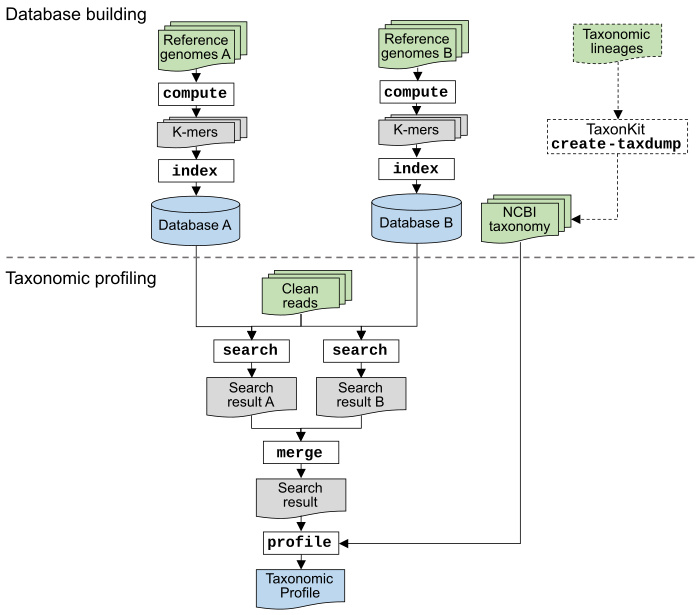
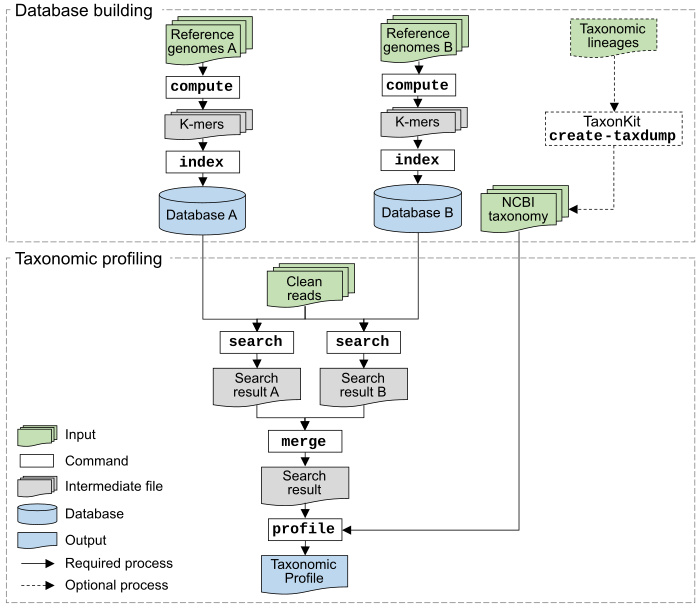
update figures and docs

Changed region(s): [[0.0, 0.0, 1.0, 0.9984], [0.0, 0.6864, 0.24, 0.9672], [0.81, 0.0312, 0.96, 0.1248]]

diff --git a/README.md b/README.md
@@ -26,14 +26,13 @@
 ### 1. Accurate metagenomic profiling
 
 KMCP adopts a novel metagenomic profiling strategy
-by splitting reference genomes into 10 or 5 chunks and mappings reads to these
+by splitting reference genomes into 10 chunks and mappings reads to these
 chunks via fast k-mer matching, denoted as ***pseudo-mapping***.
 
 Benchmarking results on both simulated and real data indicate that KMCP not only
 allows for accurate taxonomic profiling of archaea, bacteria, and viral populations
 from metagenomic shotgun sequence data, but also provides confident pathogen detection
-in infectious clinical samples of low depth
-(check the [benchmark](https://bioinf.shenwei.me/kmcp/benchmark/profiling)).
+in infectious clinical samples of low depth.
 
 ***Genome collections with custom taxonomy***,
 e.g., [GTDB](https://gtdb.ecogenomic.org/) uses its own taxonomy and
@@ -45,7 +44,7 @@ are also supported by generating NCBI-style taxdump files with [taxonkit create-
 KMCP can be used for fast sequence search against large scales of genomic datasets
 as [BIGSI](https://github.com/Phelimb/BIGSI) and [COBS](https://github.com/bingmann/cobs) do.
 We reimplemented and modified the Compact Bit-Sliced Signature index (COBS) algorithm,
-bringing a smaller index size and much faster searching speed ([4x-10x faster than COBS](https://bioinf.shenwei.me/kmcp/benchmark/searching/#result))
+bringing a smaller index size and [much faster searching speed (2x for genome search and 10x for short reads) faster than COBS](https://bioinf.shenwei.me/kmcp/benchmark/searching/#result)
  (check the [tutorial](https://bioinf.shenwei.me/kmcp/tutorial/searching) and [benchmark](https://bioinf.shenwei.me/kmcp/benchmark/searching)).
  
 ### 3. Fast genome similarity estimation
@@ -61,14 +60,14 @@ KMCP supports multiple k-mer sketches
 [FracMinHash](https://www.biorxiv.org/content/10.1101/2022.01.11.475838v2)
 (previously named [Scaled MinHash](https://f1000research.com/articles/8-1006)), and
 [Closed Syncmers](https://peerj.com/articles/10805/)) for genome similarity estimation.
-And [KMCP is 4x-7x faster than Mash/Sourmash](https://bioinf.shenwei.me/kmcp/benchmark/searching/#result)
+And [KMCP is 5x-7x faster than Mash/Sourmash](https://bioinf.shenwei.me/kmcp/benchmark/searching/#result)
  (check the [tutorial](https://bioinf.shenwei.me/kmcp/tutorial/searching) and [benchmark](https://bioinf.shenwei.me/kmcp/benchmark/searching)).
 
 
 ## Features
 
 - **Easy to install**
-    - [Statically linked executable binaries for multiple platforms](https://bioinf.shenwei.me/kmcp/download) (Linux/Windows/macOS, amd64).
+    - [Statically linked executable binaries for multiple platforms](https://bioinf.shenwei.me/kmcp/download) (Linux/Windows/macOS, AMD64/ARM64).
     - No dependencies, no configurations.
     - `conda install -c bioconda kmcp`
 - **Easy to use**
@@ -77,9 +76,9 @@ And [KMCP is 4x-7x faster than Mash/Sourmash](https://bioinf.shenwei.me/kmcp/ben
 - **Building database is easy and fast**
     - [~25 min for 47894 genomes from GTDB-r202](https://bioinf.shenwei.me/kmcp/benchmark/searching/#kmcp-vs-cobs) on a sever with 40 CPU threads and solid disk drive.
 - **Fast searching speed**
-    - The index structure is modified from COBS, while [KMCP is 4x-10x faster](https://bioinf.shenwei.me/kmcp/benchmark/searching/#result).
+    - The index structure is modified from COBS, while [KMCP is 2x-10x faster](https://bioinf.shenwei.me/kmcp/benchmark/searching/#result).
     - Automatically scales to exploit all available CPU cores.
-    - Searching time is linearly related to the number of reference genomes.
+    - Searching time is linearly related to the number of reference genomes (chunks).
 - **Scalable searching**. *Searching results against multiple databases can be fast merged*.
     This brings many benefits:
     - *There's no need to re-built the database with newly added reference genomes*. 
@@ -88,9 +87,9 @@ And [KMCP is 4x-7x faster than Mash/Sourmash](https://bioinf.shenwei.me/kmcp/ben
 - **Accurate taxonomic profiling**
     - Some k-mer based taxonomic profilers suffer from high false positive rates,
       while [KMCP adopts multiple strategies](https://bioinf.shenwei.me/kmcp/tutorial/profiling/#methods)
-      to [improve specificity and keeps high sensitivity at the same time](https://bioinf.shenwei.me/kmcp/benchmark/profiling).
-    - In addition to archaea and bacteria, [KMCP performed well on **viruses/phages**](https://bioinf.shenwei.me/kmcp/benchmark/profiling/#16-mock-virome-communities-from-roux-et-al-virusesphages).
-    - [KMCP also provides **confident infectious pathogen detection**](https://bioinf.shenwei.me/kmcp/benchmark/profiling/#87-metagenomic-samples-of-infected-body-fluids-bacteria-pathogens-low-coverage).
+      to **improve specificity and keeps high sensitivity at the same time**.
+    - In addition to archaea and bacteria, KMCP performed well on **viruses/phages**.
+    - KMCP also provides **confident infectious pathogen detection**.
     - [Preset six modes for multiple scenarios](https://bioinf.shenwei.me/kmcp/tutorial/profiling/#profiling-modes).
     - [Supports CAMI and MetaPhlAn profiling format](https://bioinf.shenwei.me/kmcp/tutorial/profiling/#profiling-result-formats).
     
@@ -143,7 +142,7 @@ in two packages for better searching performance.
 ![](kmcp-workflow.jpg)
 
     # compute k-mers
-    kmcp compute -k 21 --split-number 10 --split-overlap 100 \
+    kmcp compute -k 21 --split-number 10 --split-overlap 150 \
         --in-dir genomes/ --out-dir genomes-k21-n10
 
     # index k-mers
@@ -168,10 +167,15 @@ in two packages for better searching performance.
         --cami-report      search.tsv.gz.c.profile \
         --binning-result   search.tsv.gz.binning.gz
 
+Next:
+
+- [Demo of taxonomic profiling](https://github.com/shenwei356/kmcp/tree/main/demo-profiling)
+- [Tutorial of taxonomic profiling](https://bioinf.shenwei.me/kmcp/tutorial/profiling)
+
 ## Support
 
 Please [open an issue](https://github.com/shenwei356/kmcp/issues) to report bugs,
-propose new functions or ask for help.
+propose new functions, or ask for help.
 
 ## License
 

diff --git a/docs/tutorial/profiling/index.md b/docs/tutorial/profiling/index.md
@@ -66,7 +66,6 @@ and the results can be fastly merged for downstream analysis.
         kmcp search -d db file1.fq.gz file2.fq.gz -o result.tsv.gz
 
     **Single-end mode is recommended for paired-end reads, for higher sensitivity**.
-    See [benchmark](https://bioinf.shenwei.me/kmcp/benchmark/profiling).
 
 2. A long query sequence may contain duplicated k-mers, which are
     not removed for short sequences by default. You may modify the
@@ -74,7 +73,7 @@ and the results can be fastly merged for downstream analysis.
 3. For long reads or contigs, you should split them into short reads
     using `seqkit sliding`, e.g.,
 
-        seqkit sliding -s 100 -W 300
+        seqkit sliding -s 100 -W 300-f/--max-fpr
 
 4. The values of `tCov` and `jacc` in results only apply to databases built with a single size of k-mer.
 
@@ -83,6 +82,7 @@ can use stricter criteria in `kmcp profile`.
 
 1. `-t/--min-query-cov`, minimal query coverage, i.e., 
    proportion of matched k-mers and unique k-mers of a query (default `0.55`, close to `~96.5%` sequence similarity)
+1. `-f/--max-fpr`, maximal false positive rate of a query. (default `0.05`)
 
 #### **Index files loading modes**
 
@@ -345,11 +345,7 @@ is used for batch submitting Slurm jobs via script templates.
     the flag `--no-amb-corr` to reduce analysis time, which has very little
      effect on the results.
 4. Abundance are estimated using an Expectation-Maximization (EM) algorithm..
-5. Input files are parsed 4 times, therefore STDIN is not supported.
-
-Three-rounds profiling:
-
-<img src="profiling-steps.jpg" alt="" width="500"/>
+5. Input files are parsed for multiple times, therefore STDIN is not supported.
 
 **Accuracy notes**:
 
@@ -399,9 +395,9 @@ You can still change the values of some options below as usual.
 1. Mapping references IDs to TaxIds: `-T/--taxid-map`
 2. NCBI taxonomy dump files: `-X/--taxdump`
 
-For databases built with a custom genome collection, you can use
+**For databases built with a custom genome collection, you can use
 [taxonkit create-taxdump](https://bioinf.shenwei.me/taxonkit/usage/#create-taxdump)
-to create NCBI-style taxdump files, which also generates a TaxId mapping file.
+to create NCBI-style taxdump files, which also generates a TaxId mapping file**.
 
 **Performance notes**:
 
@@ -449,7 +445,7 @@ to create NCBI-style taxdump files, which also generates a TaxId mapping file.
 
 #### Profiling result formats
 
-**Supported profiling output formats**:
+Taxonomic profiling output formats:
 
 - KMCP      (`-o/--out-prefix`). 
   **Note that: abundances are only computed for target references rather than
@@ -457,14 +453,12 @@ to create NCBI-style taxdump files, which also generates a TaxId mapping file.
 - CAMI      (`-M/--metaphlan-report`, `--metaphlan-report-version`, sample name: `-s/--sample-id`, taxonomy data: `--taxonomy-id`)
 - MetaPhlAn (`-C/--cami-report`, sample name: `-s/--sample-id`))
 
-**Supported taxonomic binning formats**:
+Taxonomic binning formats:
 
 - CAMI      (`-B/--binning-result`)
 
 
-**KMCP format**:
-
-Tab-delimited format with 16 columns:
+KMCP format (Tab-delimited format with 16 columns):
 
 ```
  1. ref,                Identifier of the reference genome

diff --git a/docs/benchmark/searching/index.md b/docs/benchmark/searching/index.md
@@ -5,8 +5,8 @@
 Softwares
 
 - [COBS](https://github.com/bingmann/cobs) ([1915fc0](https://github.com/bingmann/cobs/commit/1915fc061bbe47946116b4a051ed7b4e3f3eca15))
-- [Sourmash](https://github.com/dib-lab/sourmash) (v4.2.2)
-- KMCP ([v0.8.0](https://github.com/shenwei356/kmcp/releases/tag/v0.8.0))
+- [Sourmash](https://github.com/dib-lab/sourmash) (v4.5.0)
+- KMCP ([v0.9.0](https://github.com/shenwei356/kmcp/releases/tag/v0.9.0))
 
 [GTDB r202 representative genomes](https://data.ace.uq.edu.au/public/gtdb/data/releases/release202/202.0/genomic_files_reps/gtdb_genomes_reps_r202.tar.gz) are used for tests:
 
@@ -22,9 +22,9 @@ Database size and building time:
 
 |               |cobs      |kmcp     |
 |:--------------|:---------|:--------|
-|database size  | 86.96GB  | 55.15GB |
-|building time  | 29m:55s  | 24min52s|
-|temporary files| 160.76GB | 1.19TB  |
+|database size  | 86.96GB  | **55.15GB** |
+|building time  | 29m55s   | **21min04s**|
+|temporary files| **160.76GB** | 935.11G |
 
 Searching with bacterial genomes or short reads (~1M reads).
 
@@ -36,9 +36,9 @@ Database size and building time:
 
 |               |mash   |sourmash  |kmcp    |
 |:--------------|:------|:---------|:-------|
-|database size  |743MB  | 5.19GB   | 1.52GB |
-|building time  |11m39s | 89m59s   | 7min02s|
-|temporary files|-      |-         | 3.41GB |
+|database size  |**1.22GB** | 5.19GB   | 1.52GB |
+|buiding time   |13m30s | 40m39s   | **7min59s**|
+|temporary files|-      |-         | 1.85GB |
 
 
 Searching with bacterial genomes.

diff --git a/benchmarks/searching/plot.md b/benchmarks/searching/plot.md
@@ -21,6 +21,19 @@ KMCP vs COBS
     csvtk concat bench.kmcp-cobs.long.tsv.time.csv bench.kmcp-cobs.short.tsv.time.csv \
         > bench.kmcp-cobs.csv
         
+    cat bench.kmcp-cobs.csv \
+        | csvtk summary -g group,app -f time:mean \
+        | csvtk sort -k group \
+        | csvtk cut -f group,app,time:mean \
+        | csvtk csv2md 
+
+|group          |app |time:mean|
+|:--------------|:---|:--------|
+|1M 150-bp reads|KMCP|74.28    |
+|1M 150-bp reads|COBS|749.32   |
+|One genome     |KMCP|12.83    |
+|One genome     |COBS|25.70    |
+
 KMCP vs Mash and Sourmash
 
     cat bench.kmcp-mash-sourmash.thread1.tsv \
@@ -41,6 +54,21 @@ KMCP vs Mash and Sourmash
         
     csvtk concat bench.kmcp-mash-sourmash.thread1.tsv.csv bench.kmcp-mash-sourmash.thread8.tsv.csv\
         > bench.kmcp-mash-sourmash.csv
+
+    cat bench.kmcp-mash-sourmash.csv \
+        | csvtk summary -g group,app -f time:mean \
+        | csvtk sort -k group \
+        | csvtk cut -f group,app,time:mean \
+        | csvtk csv2md 
+
+|group    |app     |time:mean|
+|:--------|:-------|:--------|
+|Threads=1|Sourmash|3.48     |
+|Threads=1|Mash    |6.46     |
+|Threads=1|KMCP    |1.11     |
+|Threads=8|Sourmash|3.48     |
+|Threads=8|Mash    |4.20     |
+|Threads=8|KMCP    |0.60     |
     
 ## Plotting
 

diff --git a/docs/database.md b/docs/database.md
@@ -1414,7 +1414,7 @@ is good enough.
         --out-dir refs-k21-n10
 
     # demo output
-    13:11:13.397 [INFO] kmcp v0.8.0
+    13:11:13.397 [INFO] kmcp v0.9.0
     13:11:13.397 [INFO]   https://github.com/shenwei356/kmcp
     13:11:13.397 [INFO] 
     13:11:13.397 [INFO] checking input files ...
@@ -1525,7 +1525,7 @@ and have improved the indexing and searching speed
         --out-dir refs.kmcp 
 
     # demo output
-    22:44:17.710 [INFO] kmcp v0.8.0
+    22:44:17.710 [INFO] kmcp v0.9.0
     22:44:17.710 [INFO]   https://github.com/shenwei356/kmcp
     22:44:17.710 [INFO] 
     22:44:17.710 [INFO] loading .unik file infos from file: refs-k21-n10/_info.txt
@@ -1596,5 +1596,7 @@ Output:
 |file                          |k  |canonical|num-hashes|num-sigs|num-names|
 |:-----------------------------|:--|:--------|:---------|:-------|:--------|
 |refs.kmcp/R001/_block001.uniki|21 |true     |1         |746442  |8        |
+
+Where `num-sigs` is the size of the bloom filters, and `num-names` is the number of genome (chunks).
 
 What's next? Check the [tutorials](/kmcp/tutorial).

diff --git a/CHANGELOG.md b/CHANGELOG.md
@@ -1,6 +1,6 @@
 # Changelog
 
-### v0.9.0 - 2022-00-00
+### v0.9.0 - 2022-09-00
 
 - `compute`:
     - smaller output files and faster speed.
@@ -11,6 +11,7 @@
     - smaller query FPR values by computing the actual FPR values for each bloom filter in a genome chunk.
 - `profile`:
     -***more accurate abundance estimation using EM algorithm***.
+- new command `utils split-genomes` for splitting genomes into chunks.
 
 ### v0.8.4 - 2022-08-16
 

diff --git a/benchmarks/searching/README.md b/benchmarks/searching/README.md
@@ -73,8 +73,8 @@ Database size and building time.
 |               |cobs      |kmcp     |
 |:--------------|:---------|:--------|
 |database size  | 86.96GB  | 55.15GB |
-|building time  | 29m:55s  | 21min04s|
-|temporary files| 160.76GB | 935.11G  |
+|building time  | 29m55s   | 21min04s|
+|temporary files| 160.76GB | 935.11G |
     
 ### Searching with bacterial genomes
 

diff --git a/demo-profiling/README.md b/demo-profiling/README.md
@@ -22,7 +22,7 @@ Some extra tools:
 ### Reference genomes
 
 We choose 15 bacterial genomes to make a mock metagenomic community.
-Note that some species belong to the same family or genus.
+Note that **some species belong to the same family or genus**.
 
 Taxonomy information (NCBI Taxonomy):
     
